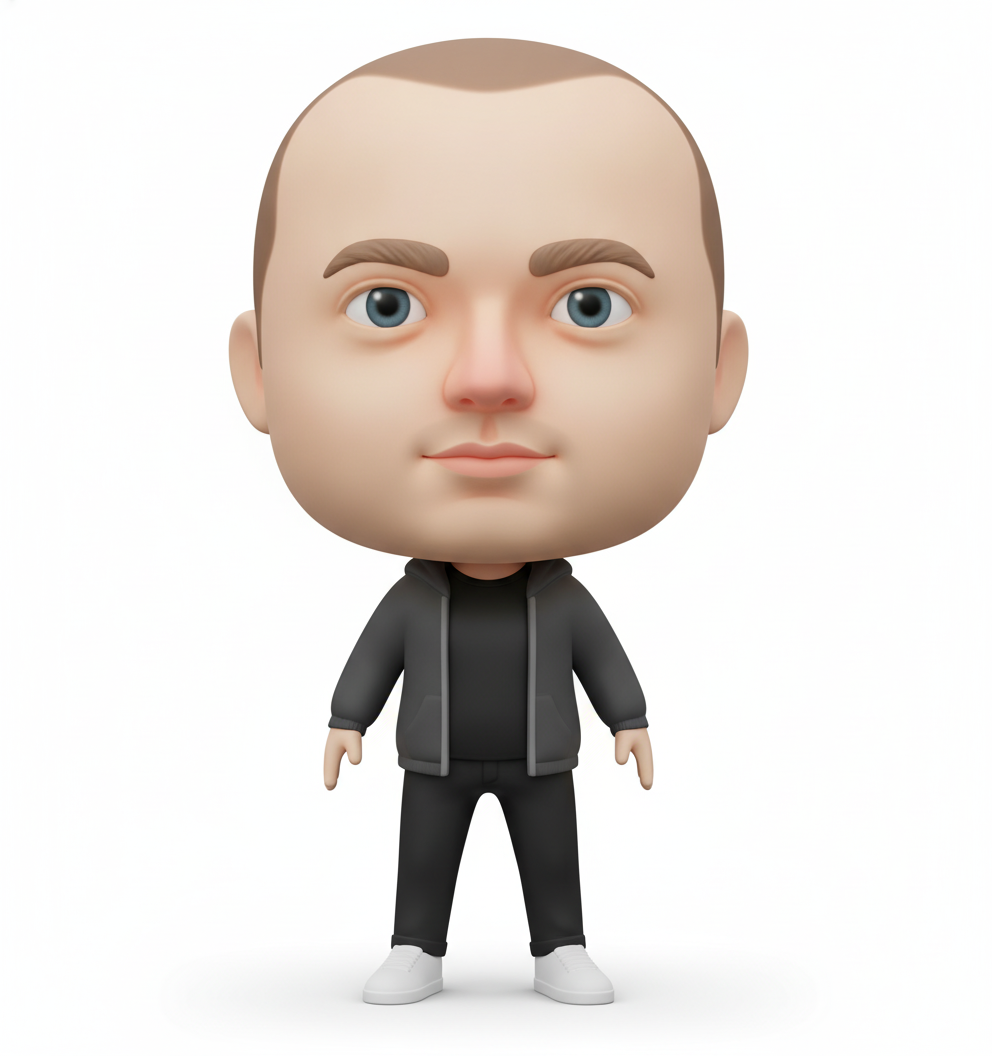
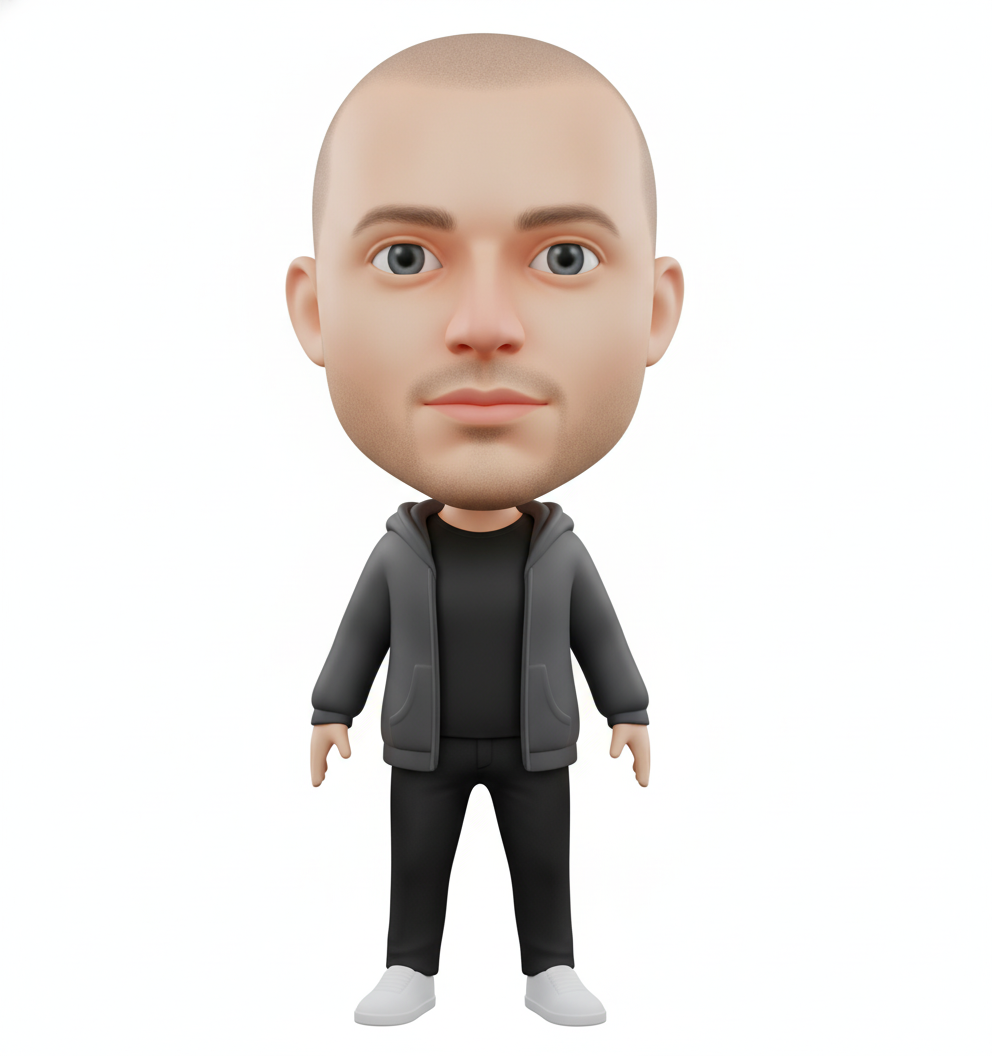
ダニエル・エクの下絵を細い顔で描き直す（data.js の face で顔の注文を Gemini に渡せるようにする）
Claude-Session: https://claude.ai/code/session_01RaUvt2UB3MxU9FE2uN5ecN

Changed region(s): [[0.2188, 0.0312, 0.7812, 1.0]]

diff --git a/src/data.js b/src/data.js
@@ -239,6 +239,8 @@ export const LEGENDS = [
       'ポッドキャストやオーディオブックにも広げる',
     ],
     look: { skin: 0xf3d6c4, hairStyle: 'bald', hairColor: 0x6b5a48, shirt: 0x2a2a2e },
+    // 1回目は顔が横に広くなったので、細めの顔を指定する
+    face: 'a slim, slightly long oval face that is clearly narrower than it is wide, with a defined jawline and a pointed chin, not round or chubby; short light stubble on the jaw and chin; a closely shaved head',
     // ふだんの、黒いTシャツにパーカーの姿で作る
     outfit: 'a plain black crew-neck T-shirt under an open dark charcoal zip-up hoodie, black slim jeans and white sneakers',
   },
